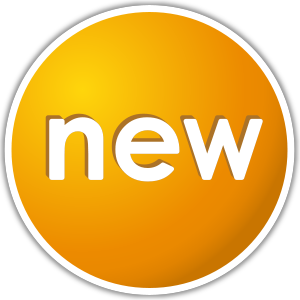
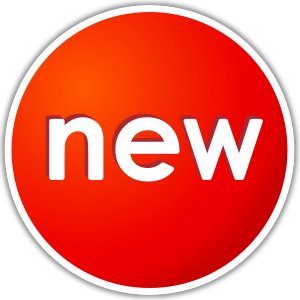
UI

diff --git a/modules/chat/client/views/chat.client.private.view.html b/modules/chat/client/views/chat.client.private.view.html
@@ -1,24 +1,31 @@
 <!-- The chat view -->
-
-<div class="row" ng-controller="ChatController">
+<div class="container page-styling"  ng-controller="ChatController">
+<div class="header-wrapper">
+<section>
+<div class="site-name">
+<image src="modules/core/client/img/brand/chat.png" class="img-circle img-responsive" style="height:150px;width:150px;"/>
+</div>
+<p></p>
+<div class="form-style-3">
+  <fieldset>
   <div class="col-md-2">
     <!-- {{onlineUsers}} -->
     <!-- {{userId}} -->
   </div>
   <div class="col-md-9">
 
-    <section class="container">
+    <section>
       <div class="page-header">
-        <h1>Chat with {{receiverUser}}</h1>
+        <h1 class="input-group2">Chat with {{receiverUser}}</h1>
         <!-- {{onlineUsers}} -->
       </div>
       <!-- The message form -->
-      <form class="col-xs-12 col-md-offset-4 col-md-4" ng-submit="sendPrivate();">
+      <form class="col-xs-12 col-md-10" ng-submit="sendPrivate();">
         <fieldset class="row">
           <div class="input-group">
             <input type="text" id="privateText" name="privateText" class="form-control" ng-model="privateText" placeholder="Enter new message">
             <span class="input-group-btn">
-          <button type="submit" class="btn btn-primary" ng-disabled="!privateText.length">Submit</button>
+          <button type="submit" class="btn btn-danger" ng-disabled="!privateText.length">Submit</button>
         </span>
           </div>
         </fieldset>
@@ -40,9 +47,6 @@
   </div>
 
 <section ng-if="privateMessages == ''  ? false : true">
-  <div class="page-header">
-    <h1>Messages</h1>
-  </div>
   <!-- {{privateMessages}} -->
   <div class="list-group" id="privateMessages">
     <!-- {{vm.sharetool.Data[1]}} -->
@@ -52,6 +56,15 @@
           <i class="glyphicon glyphicon-trash"></i>
         </a>
       </div>
+
+        <div class="img-name">
+          <img ng-src="{{message.profileImageURL}}" alt="{{message.displayName}}" class="header-profile-image" />
+          <span><h4 class="list-group-item-heading" ng-bind="message.message"></h4></span>
+          
+            </div>
+
+        <p class="list-group-item-text" ng-bind="message.message"></p>
+
       <small class="list-group-item-text">
         Posted on
         <span ng-bind="message.date | date:'mediumDate'"></span>
@@ -59,12 +72,12 @@
         <span ng-if="message" ng-bind="message.displayName"></span>
         <span ng-if="!message">Deleted User</span>
       </small>
-      <h4 class="list-group-item-heading" ng-bind="message.message"></h4>
-
-      <p class="list-group-item-text" ng-bind="message.message"></p>
-      <img ng-src="{{message.profileImageURL}}" alt="{{message.displayName}}" class="header-profile-image" />
-
     </div>
   </div>
 </section>
+</div>
+</fieldset>
+</div>
+</section>
+</div>
 </div>

diff --git a/modules/core/client/views/ourteam.client.view.html b/modules/core/client/views/ourteam.client.view.html
@@ -1,0 +1,42 @@
+<div class="container page-styling">
+<div class="header-wrapper">
+<section>
+<div class="site-name">
+  <image src="modules/core/client/img/brand/team.jpg" class="img-circle img-responsive" style="height:150px;width:150px;"/>
+</div>
+<p></p>
+<div class="form-style-3">
+  <fieldset>
+    <div class="row">
+      <div class="col-md-2 col-md-offset-1">
+      <image src="modules/core/client/img/brand/noha.jpg" class="img-circle img-responsive" style="border-radius:50px;"/>
+      <span style="font-size:20px;">Noha Salah </span>
+         <span style="font-size:20px;color:darkred;">(supervisor)</span>
+    </div>
+    <div class="row">
+      <div class="col-md-2">
+      <image src="modules/core/client/img/brand/wafaa.png" class="img-circle img-responsive" style="border-radius:50px;"/>
+      <span style="font-size:20px;">Wafaa Elsayed </span>
+         <span style="font-size:20px;color:darkred;">(SD) </span>
+    </div>
+    <div class="col-md-2">
+       <image src="modules/core/client/img/brand/abdo.jpg" class="img-circle img-responsive" style="border-radius:50px;"/>
+       <span style="font-size:20px;">Abd Elrahman Elhoshy </span>
+       <span style="font-size:20px;color:darkred;">(OS)</span>
+    </div>
+     <div class="col-md-2">
+           <image src="modules/core/client/img/brand/gnedy.png" class="img-circle img-responsive" style="border-radius:50px;"/>
+          <span style="font-size:20px;">Mohamed Gnedy(Leader)</span>
+          <span style="font-size:20px;color:darkred;">(OS)</span>
+     </div>
+    <div class="col-md-2">
+       <image src="modules/core/client/img/brand/sharkawy.jpg" class="img-circle img-responsive" style="border-radius:50px;"/>
+       <span style="font-size:20px;">Mohamed Sharkawy</span>
+       <span style="font-size:20px;color:darkred;">(SD)</span>
+    </div>
+          </div>
+  </fieldset>
+</div>
+</section>
+</div>
+</div>

diff --git a/modules/sharehouses/client/views/view-sharehouse.client.view.html b/modules/sharehouses/client/views/view-sharehouse.client.view.html
@@ -49,7 +49,7 @@
   </div> -->
   <div class="col-md-12">
     <form name="vm.form.commentForm" class="form-horizontal" ng-submit="vm.saveComment(vm.form.commentForm.$valid)" novalidate>
-    <h1>Your Comment</h1>
+    <h1 style="color:white;">Your Comment</h1>
         <div class="form-group" show-errors>
 
           <textarea name="name" type="text" ng-model="vm.comment.comment" id="comment" class="form-control" placeholder="comment" required></textarea>
@@ -58,7 +58,7 @@
           </div>
         </div>
         <div class="form-group">
-          <button type="submit" class="btn"  style="background-color:#082463; color:white;">{{vm.comment._id ? 'Update' : 'Comment'}}</button>
+          <button type="submit" class="btn" style="background-color:white;color:darkred;">{{vm.comment._id ? 'Update' : 'Comment'}}</button>
         </div>
         <div ng-show="vm.error" class="text-danger">
           <strong ng-bind="vm.error"></strong>
@@ -70,6 +70,8 @@
 </fieldset>
 <div class="form-style-3">
   <fieldset >
+    <div class="form-style-3">
+      <fieldset >
 <section ng-if="vm.sharehouse.Data[1] == ''  ? false : true" >
   <div class="list-group " id="comments">
     <!-- {{vm.sharehouse.Data[1]}} -->
@@ -99,6 +101,8 @@
     No Houses yet, why don't you <a ui-sref="sharehouses.create">create one</a>?
   </div>
 </section>
+</div>
+</fieldset>
 </div>
 </fieldset>
 </div>

diff --git a/modules/sharetools/client/views/view-sharetool.client.view.html b/modules/sharetools/client/views/view-sharetool.client.view.html
@@ -53,7 +53,7 @@
 <section ng-if="vm.authentication.user">
   <div class="col-md-12">
     <form name="vm.form.commentForm" class="form-horizontal" ng-submit="vm.saveComment(vm.form.commentForm.$valid)" novalidate>
-      <h1>Your Comment</h1>
+      <h1 style="color:white;">Your Comment</h1>
         <div class="form-group" show-errors>
           <textarea name="name" type="text" ng-model="vm.comment.comment" id="comment" class="form-control" placeholder="comment" required></textarea>
           <div ng-messages="vm.form.commentForm.name.$error" role="alert">
@@ -61,7 +61,7 @@
           </div>
         </div>
         <div class="form-group">
-          <button type="submit" class="btn" style="background-color:#082463; color:white;">{{vm.comment._id ? 'Update' : 'Comment'}}</button>
+          <button type="submit" class="btn" style="background-color:white; color:darkred;">{{vm.comment._id ? 'Update' : 'Comment'}}</button>
         </div>
         <div ng-show="vm.error" class="text-danger">
           <strong ng-bind="vm.error"></strong>

diff --git a/modules/sharehouses/client/views/list-sharehouses.client.view.html b/modules/sharehouses/client/views/list-sharehouses.client.view.html
@@ -5,15 +5,20 @@
 <image src="modules/core/client/img/brand/H.jpg" class="img-circle img-responsive" style="height:150px;width:150px;"/>
 </div>
 <p></p>
+<div class="input-group searchv">
+    <input type="text" ng-model="searchText" class="form-control" placeholder="Search for...">
+    <span class="input-group-btn">
+    </span>
+  </div><!-- /input-group -->
 <div class="form-style-3">
   <fieldset>
-  <button type="button" class="btn" ui-sref="sharehouses.create" style="background-color:#FFDE00;color: #097054;">Add New Advertising</button>
+  <button type="button" class="btn" ui-sref="sharehouses.create" style="background-color:darkred;color: white;">Add New Advertising</button>
 <p></p>
 <div class="row">
 <div class="featured-items">
-<div ng-repeat="sharehouse in vm.sharehouses" class="col-md-4 ">
+<div ng-repeat="sharehouse in vm.sharehouses | filter:searchText" class="col-md-4 ">
 <ul id="grid" >
-<li >
+<li>
     <div class="item">
     <h4 class="list-group-item-heading" ng-bind="sharehouse.title"></h4>
      <div class="grow">

diff --git a/modules/sharetools/client/views/list-sharetools.client.view.html b/modules/sharetools/client/views/list-sharetools.client.view.html
@@ -5,13 +5,18 @@
     <image src="modules/core/client/img/brand/T.jpg" class="img-responsive" style="height:150px;width:150px;"/>
   </div>
   <p></p>
+  <div class="input-group searchv">
+      <input type="text" ng-model="searchText" class="form-control" placeholder="Search for...">
+      <span class="input-group-btn">
+      </span>
+    </div><!-- /input-group -->
       <div class="form-style-3">
         <fieldset>
-  <button type="button" class="btn createNew" ui-sref="sharetools.create"  style="background-color:#FFDE00;color: #097054;" >Add New Advertising</button>
+  <button type="button" class="btn createNew" ui-sref="sharetools.create"  style="background-color:darkred;color:white;" >Add New Advertising</button>
   <p></p>
 
   <div class="featured-items">
-   <div ng-repeat="sharetool in vm.sharetools" class="col-md-4 ">
+   <div ng-repeat="sharetool in vm.sharetools| filter:searchText" class="col-md-4 ">
     <ul id="grid" >
     <li >
         <div class="item" style="width:300px;height:400px;">

diff --git a/modules/sharetools/client/views/form-sharetool.client.view.html b/modules/sharetools/client/views/form-sharetool.client.view.html
@@ -32,7 +32,7 @@
                                          </div>
                                   </div>
                                   <div class="form-group">
-                                      <button type="submit" class="btn" style="background-color:#FFDE00;color: #097054;">{{vm.sharetool.Data[0]._id ? 'Update' : 'Create'}}</button>
+                                      <button type="submit" class="btn" style="background-color:darkred; color:white;">{{vm.sharetool.Data[0]._id ? 'Update' : 'Create'}}</button>
                                   </div>
                                   <div ng-show="vm.error" class="text-danger">
                                        <strong ng-bind="vm.error"></strong>

diff --git a/modules/sharehouses/client/views/form-sharehouse.client.view.html b/modules/sharehouses/client/views/form-sharehouse.client.view.html
@@ -77,7 +77,7 @@
                             <strong ng-bind="vm.error"></strong>
                        </div>
                        <div class="form-group">
-                         <button type="submit" class="btn" style="background-color:#FFDE00;color: #097054;">{{vm.sharehouse.Data[0]._id ? 'Update' : 'Create'}}</button>
+                         <button type="submit" class="btn" style="background-color:darkred; color:white;">{{vm.sharehouse.Data[0]._id ? 'Update' : 'Create'}}</button>
                        </div>
                        <div ng-show="vm.error" class="text-danger">
                          <strong ng-bind="vm.error"></strong>

diff --git a/modules/core/client/views/header.client.view.html b/modules/core/client/views/header.client.view.html
@@ -11,7 +11,7 @@
   <nav class="collapse navbar-collapse" collapse="!isCollapsed" role="navigation">
     <ul class="nav navbar-nav navbar-right">
       <li ui-sref-active="active">
-        <a ui-sref="authentication.signup" style="color:white;">Our Team</a>
+        <a ui-sref="ourTeam" style="color:white;">Our Team</a>
       </li>
     </ul>
     <ul class="nav navbar-nav" ng-if="menu.shouldRender(authentication.user);">

diff --git a/modules/core/client/config/core.client.routes.js b/modules/core/client/config/core.client.routes.js
@@ -38,6 +38,13 @@ angular.module('core').config(['$stateProvider', '$urlRouterProvider',
       data: {
         ignoreState: true
       }
+    })
+    .state('ourTeam', {
+      url: '/ourTeam',
+      templateUrl: 'modules/core/client/views/ourteam.client.view.html',
+      data: {
+        ignoreState: true
+      }
     });
   }
 ]);

diff --git a/modules/core/client/css/core.css b/modules/core/client/css/core.css
@@ -122,9 +122,11 @@ a:hover .header-profile-image {
    padding-top: 10px;
 }
 .searchv{
-   background-color:#0097A7;
-   margin-top: 50px;
+   background-color:gray;
+   margin-top: 10px;
    padding-top: 5px;
+   width:500px;
+   margin-left: 300px;
 }
 .label{
   padding-right: 1200px;

diff --git a/modules/users/client/views/view-user.client.view.html b/modules/users/client/views/view-user.client.view.html
@@ -1,6 +1,6 @@
 <div class="container page-styling">
 <div class="header-wrapper">
-<section>
+<section class="row">
 <div class="site-name">
   <h1 ng-bind="user.username" style="color:darkred"></h1>
 </div>
